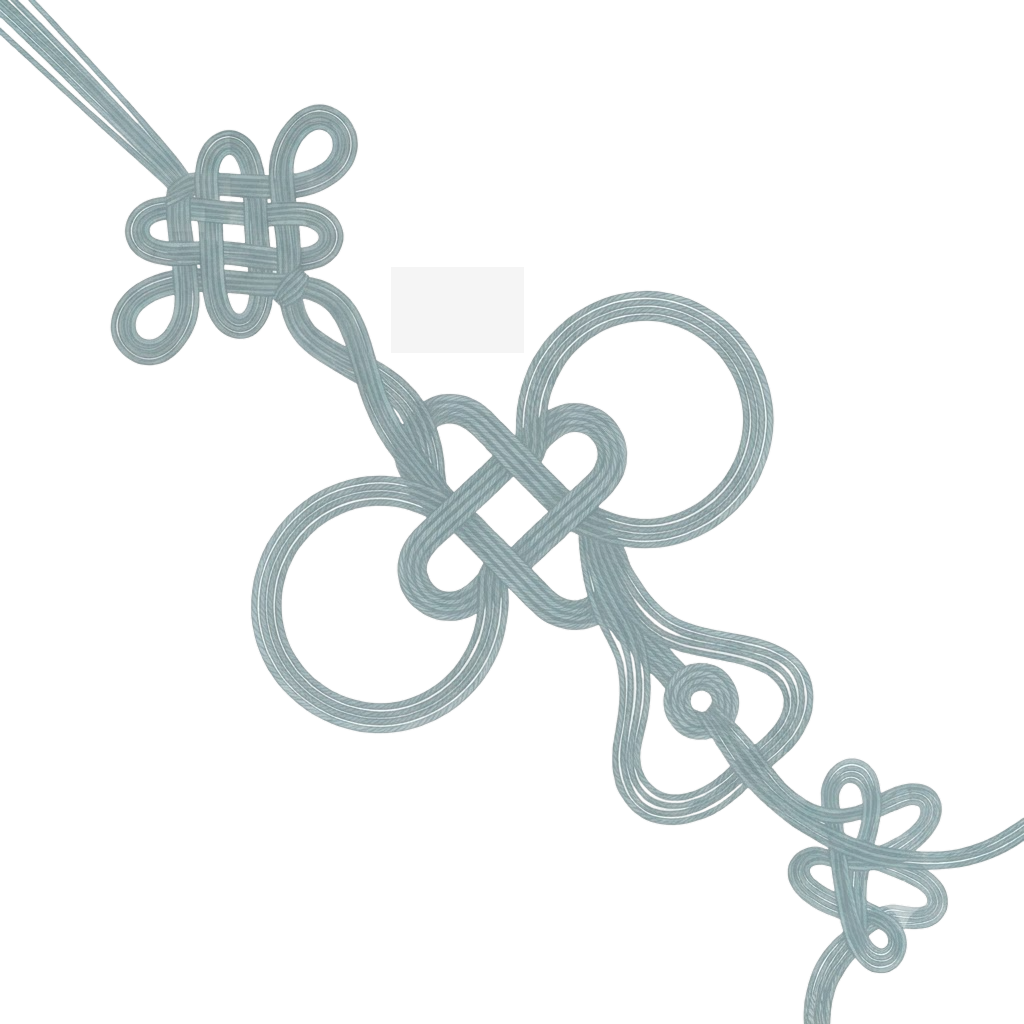
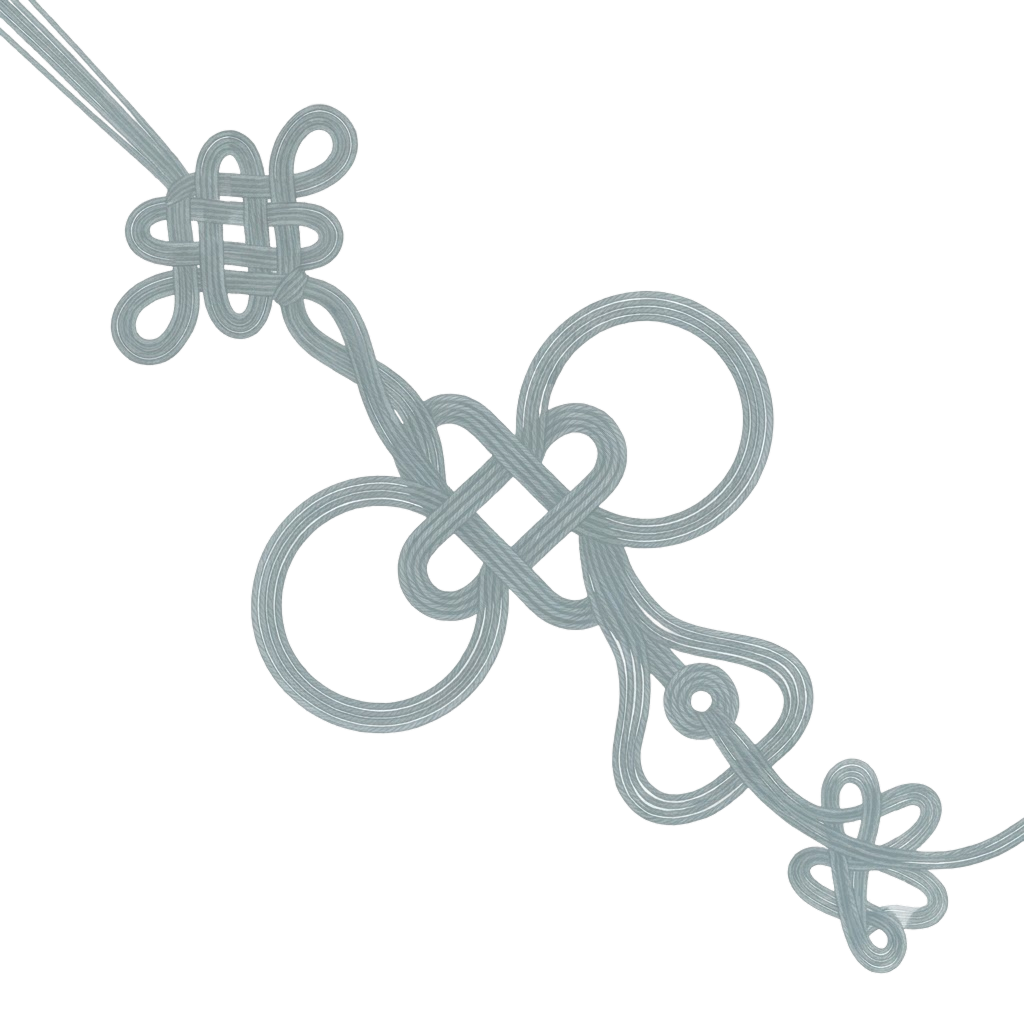
style: 홈 매듭 배경을 화면 우측 끝에 맞춰 정렬

Changed region(s): [[0.7812, 0.9062, 0.8438, 1.0], [0.5938, 0.625, 0.625, 0.6562]]

diff --git a/src/app/components/Layout.tsx b/src/app/components/Layout.tsx
@@ -53,7 +53,7 @@ export default function Layout() {
           <img
             src="/images/point.png"
             alt=""
-            className="w-[180px] lg:w-[560px] max-w-none -translate-y-[12%] translate-x-[10%] select-none"
+            className="w-[180px] lg:w-[560px] max-w-none -translate-y-[12%] select-none"
           />
         </div>
       )}
